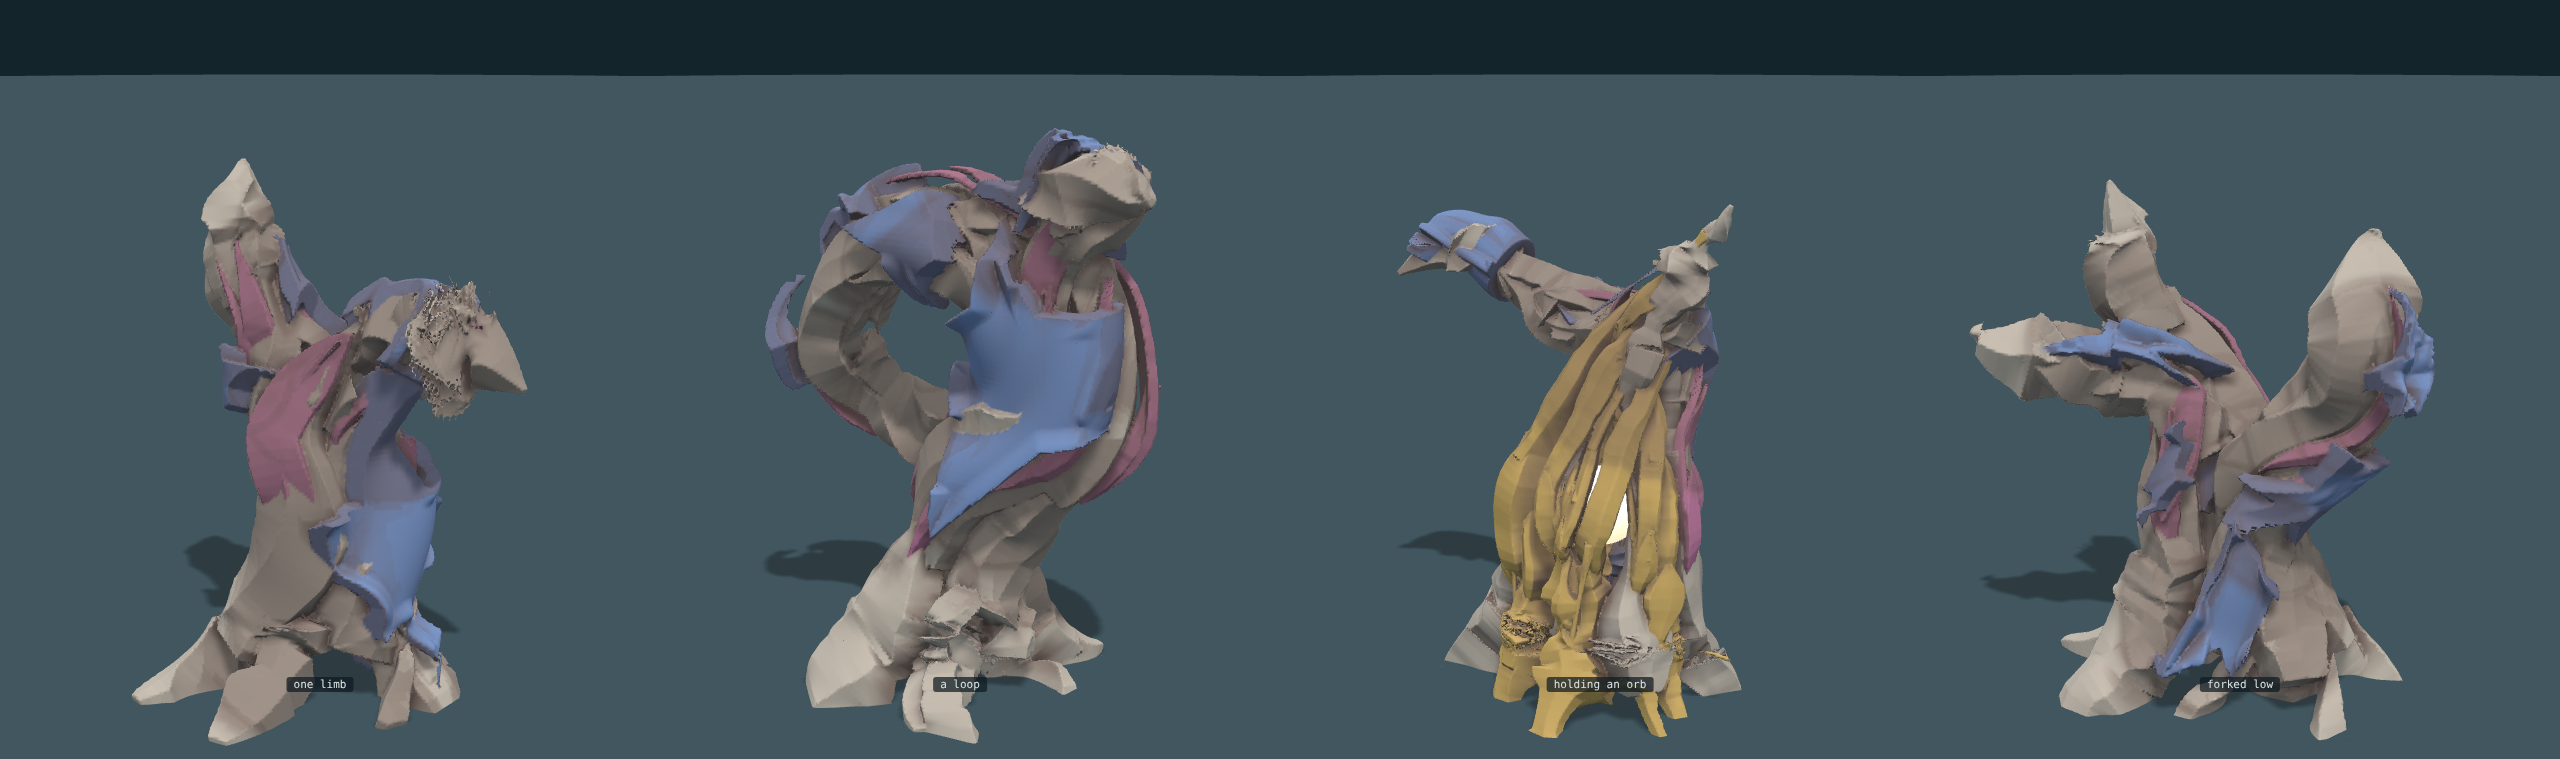
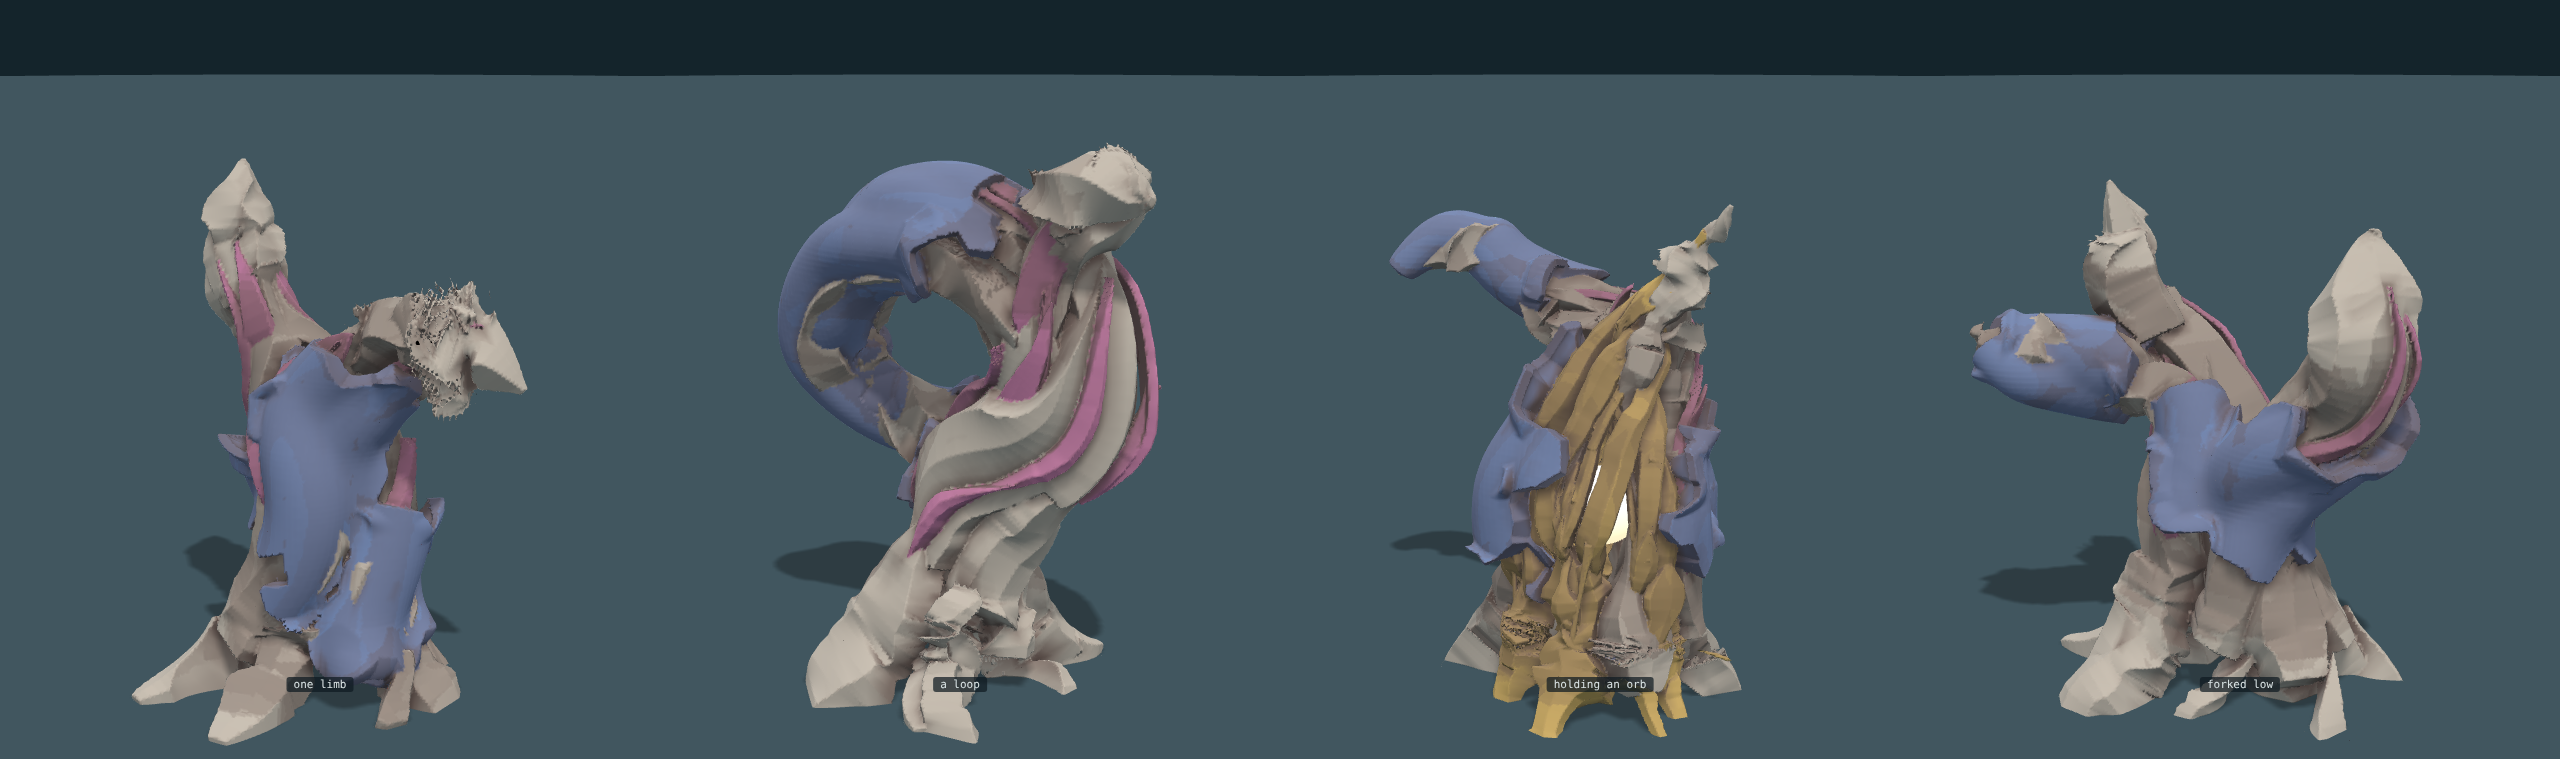
Bark as swathes of cells: pictures for both pages and log
Claude-Session: https://claude.ai/code/session_0192rgp75jGkttZXf7hEakip

diff --git a/LOG.md b/LOG.md
@@ -2206,3 +2206,52 @@ grain, the wiriest layer after the torn parts.
 In clay: on the loop and the one-limb tree the large sheets read as flat
 angular plates lying on the trunk, with an edge. Smaller ones are lost
 among the strands.
+
+**Bark as swathes of cells.** Said of the erratic patches: bark needs a
+minimum surface, tiny patches are not worth adding. And proposed:
+"encasing the tree in an invisible voronoi mesh and then creating swathes
+of voronoi clusters. That way you control how much it percolates and how
+much it stays cohesive."
+
+Built so, replacing the separate patches and their drawn outlines:
+
+- The mesh. Points are scattered evenly over the outside of the wood,
+  across each strand as well as along it, none nearer another than 0.08,
+  and each owns the space nearer to it than to any other. 180 to 320 cells
+  a tree. Torn strands have cells too; only the orb's opening has none.
+- Swathes. One starts at a cell and spreads to neighbours. `percolate` is
+  the chance it goes on after each cell. `cohere` is how strongly it
+  prefers a cell already touching several of its own. Swathes are laid
+  until `cover` of the cells are on (0.3). One under `least` cells (10) is
+  taken off again: the minimum surface.
+- The sheet: 0.03 thick, flat-faced, one thickness to its edge, lying
+  over the strands. Its edge is the boundary between a cell that is on and
+  one that is off, so it is straight runs and angles without any outline
+  being drawn. Peeled in places along that edge.
+
+`sketch/page7.png`, `sketch/page7-layers.png` (the four trees).
+`sketch/page8.png`, `sketch/page8-layers.png`: one tree, four spreads:
+few and compact (percolate 0.985, cohere 4), few and reaching (0.985, 0),
+many and small (0.93, 2), most of the tree (cover 0.65).
+
+Broke first (`sketch/page8-first-bubbles.png`): bark as bubbles and rings.
+Peeling was triggered by distance from a cell's own middle as well as from
+a real border, so every cell lifted except at its middle. Mended.
+
+What it does: bark is now a few large connected sheets with angular
+edges, one to four a tree, none tiny. The orb tree has bark on its trunk
+for the first time (three swathes either side of the orb). "Many and
+small" and "most of the tree" are plainly different from the first two.
+
+Wrong, or not there:
+
+- Compact and reaching look nearly alike. With one or two swathes of 30
+  cells on a limb two or three cells round, there is no room for an arm
+  to reach. `cohere` needs more cells, or larger trees, to show.
+- Where a sheet covers a limb it makes a smooth sleeve. The sheet spans
+  the grooves so well that the strands under it vanish, and with them the
+  tree's character; "most of the tree" is a smooth blob.
+- Edges are angular but at the size of one cell (0.08), which is fine
+  teeth, not the large points of the sketch given earlier.
+- Swathes favour limbs, because a limb is where a spreading swathe can
+  wrap right round and find most neighbours.
